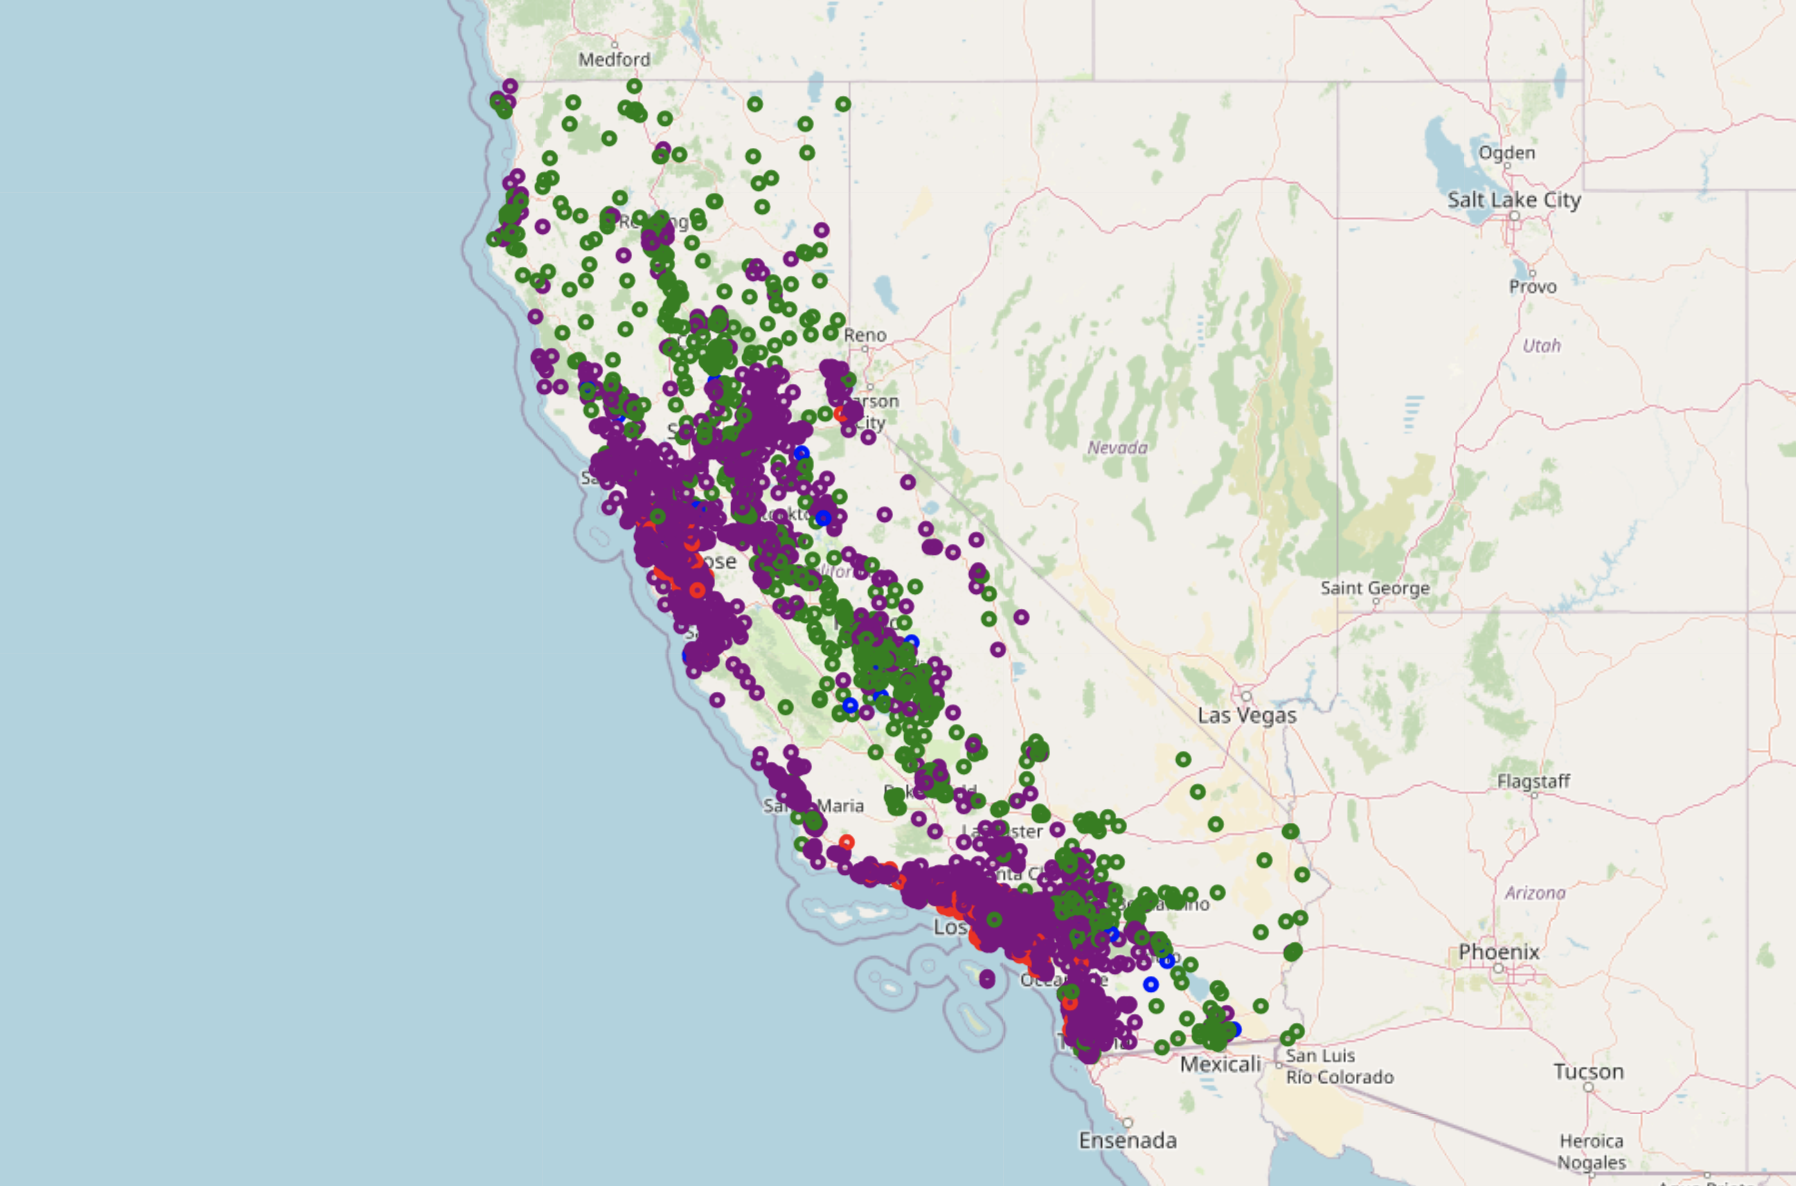
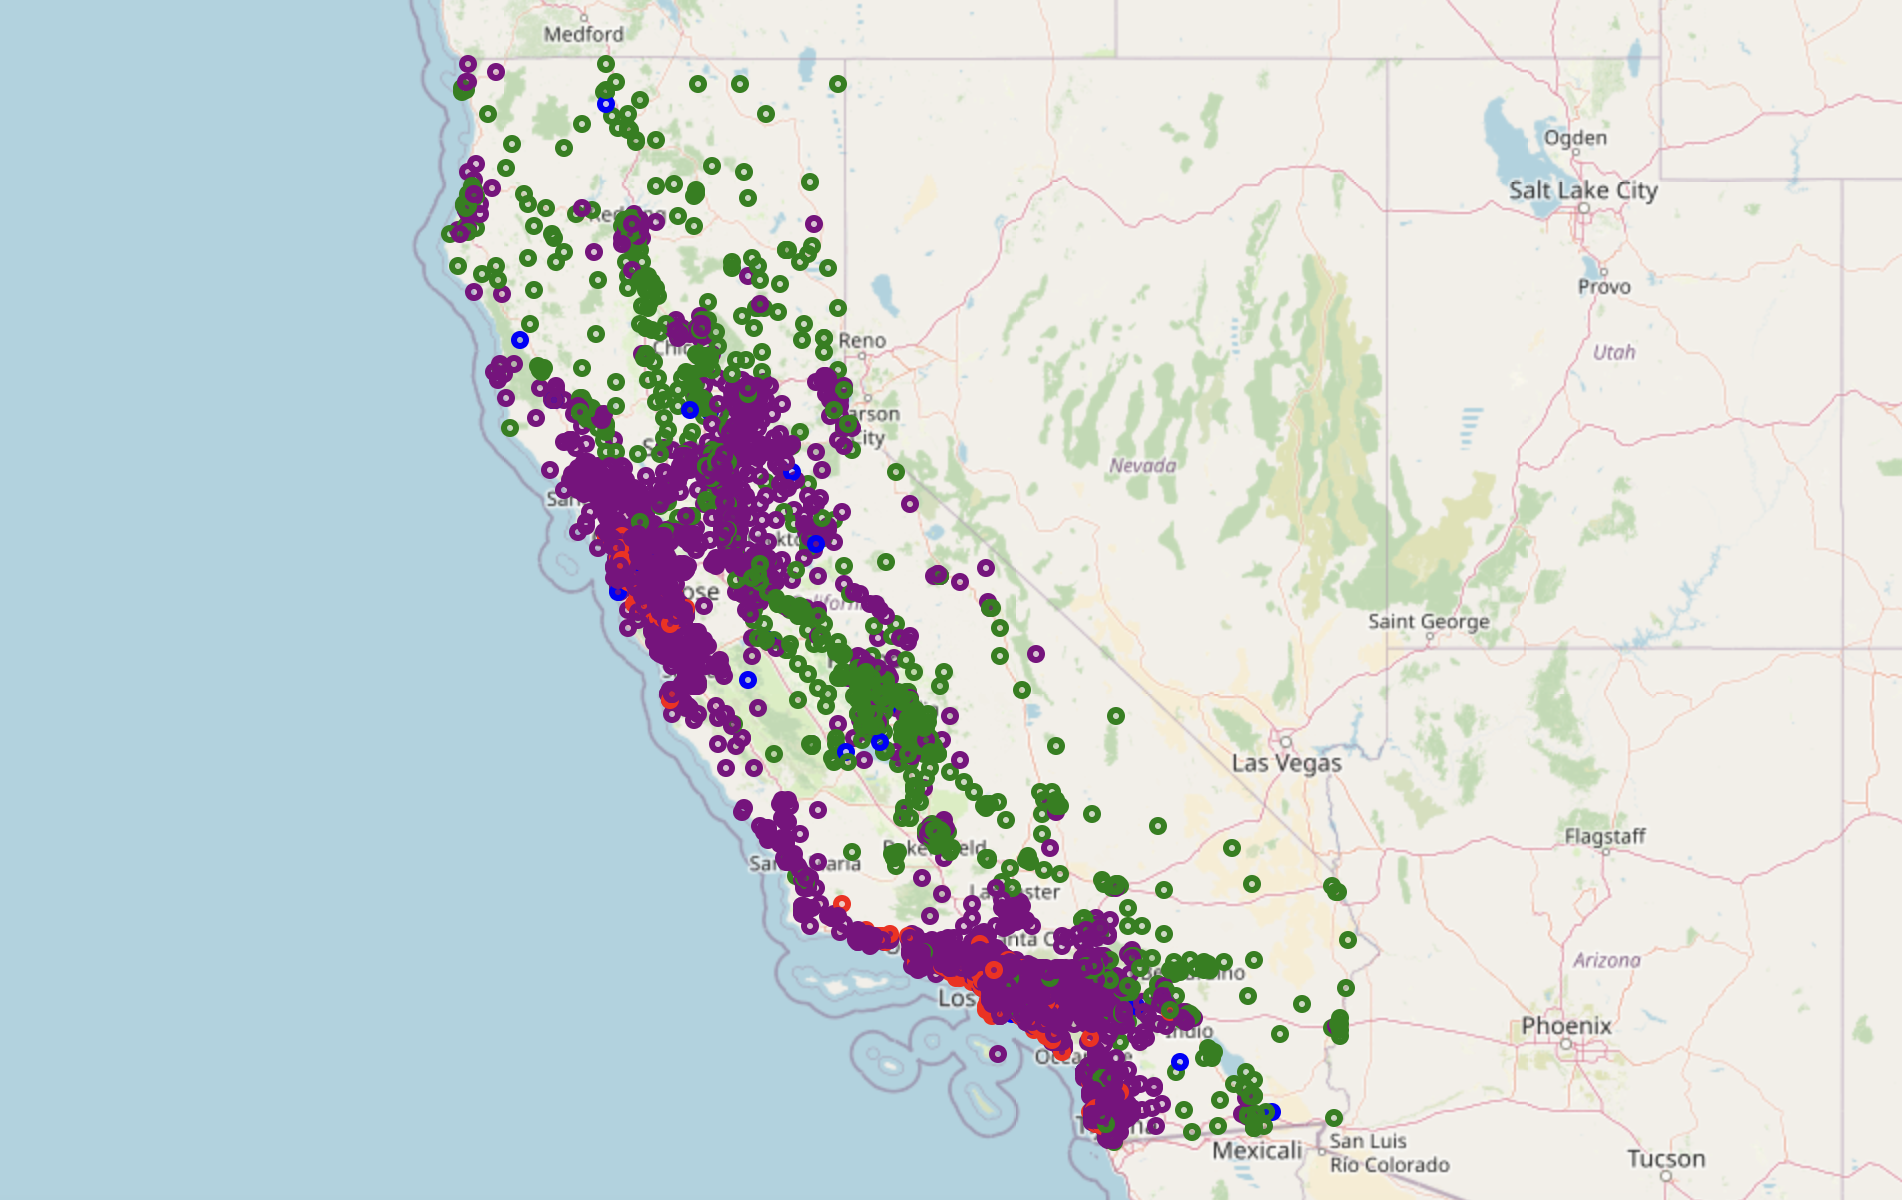
updated visualizations tab

diff --git a/frontend/src/components/visualizations.js b/frontend/src/components/visualizations.js
@@ -4,15 +4,52 @@ function Visualizations(props) {
   return (
     <div id="visualizations">
       <h1>Analytics/Visualizations for California Housing Prices</h1>
-      <h3>Graph #1: Housing Sizes and House age</h3>
-      <img src={require("../assets/img/graph1.png")} alt="Graph showing relationship between Housing Prices and House Age" />
-      <p>
-        There is a clear relationship present from the graph: as time progresses, more rooms arise on the block. 
-        Both total rooms and total bedrooms show this relationship (visible by the upward motion 
-        of the lines). This correlation makes sense when you look at the population of California from 1970-current 
-        (see graph below from this <a href=''>source</a>). It makes sense that as the population increases, more housing needs to be provided to accommodate 
-        the influx of people. As more housing is generated, more rooms are constructed.
-      </p>
+      <div className="graphSection">
+        <h2>Graph #1: Housing Sizes and House age</h2>
+        <img src={require("../assets/img/graph1.png")} alt="Graph showing relationship between Housing Prices and House Age" />
+        <p className="graphDescrip">
+          There is a clear relationship present from the graph: as time progresses, more rooms arise on the block. 
+          Both total rooms and total bedrooms show this relationship (visible by the upward motion 
+          of the lines). This correlation makes sense when you look at the population of California from 1970-current 
+          (see graph below from this <a href='https://www.macrotrends.net/states/california/population' rel="noreferrer" target="_blank">source</a>). It makes sense that as the population increases, more housing needs to be provided to accommodate 
+          the influx of people. As more housing is generated, more rooms are constructed.
+        </p>
+        <img src={require("../assets/img/graph4.png")} alt="Graph of California's Population Growth" />
+      </div>
+      <hr/>
+      <div className="graphSection">
+        <h2>Graph #2: Correlation between Ocean Proximity and House Value</h2>
+        <div id="graph2">
+          <img src={require("../assets/img/graph2.png")} alt="Graph showing relationship between Ocean Proximity and House Value" />
+          <p className="graphDescrip">
+            We were relatively surprised by the results of the graph. Our initial thought would be that the near 
+            ocean section would be th most expensive, however the island section was. This makes sense, however, when 
+            you factor in islands such as Catalina Island which is notorious for its expensive real estate. The inland section 
+            was the least expensive, which followed our predictions.
+          </p>
+        </div>
+      </div>
+      <div className="graphSection">
+        <h2>Graph #3: Map Visualizations</h2>
+        <div className="graph3" >
+          <img id="imgLeft" src={require("../assets/img/graph3.png")} alt="Map Visualization" />
+          <p className="graphDescrip">
+            Our map displays the median_house_value (median of the household prices of all the houses in the block). 
+            The colors indicate which price sector the block falls into. Houses under $100,000 are colored green, houses between 
+            $100,000 to $500,000 are colored purple, houses between $500,000 and $1,000,000 are red, and houses over $1,000,000 
+            are colored blue.
+          </p>
+        </div>
+        <div className="graph3">
+          <p className="graphDescrip">
+            The map provided an interesting complement to our graphical results from Graph #2. Many of the more inland housing blocks are colored purple 
+            (less than 100,000 in median value), which supported our graphical results. Homes in Newport Beach and Beverly Hills predominantly fall within the 
+            higher-priced brackets, reflecting the premium real estate trends associated with these locations.
+          </p>
+          <img src={require("../assets/img/graph5.png")} alt="Graph of California's Population Growth" />  
+        </div>
+      </div>
+      <a href='https://colab.research.google.com/drive/12JzOhJDIA2z4OqKoCXC_UrYxwxjRjwsj?usp=sharing' rel="noreferrer" target="_blank">Link to Code for Visualizations</a>
     </div>
   );
 }

diff --git a/backend/src/db.js b/backend/src/db.js
@@ -3,6 +3,8 @@ import mysql from 'mysql2';
 import { Client } from 'ssh2';
 import {join, dirname} from 'path';
 import { fileURLToPath } from 'url';
+
+// Source: https://medium.com/@devontem/nodejs-express-using-ssh-to-access-mysql-remotely-60372832dd08
 // Create a new SSH client instance
 const ssh = new Client();
 
@@ -35,7 +37,7 @@ const db = new Promise((resolve, reject) => {
           stream,
         });
         // Connect to the MySQL database
-        await connection.connect((err2) => {
+        connection.connect((err2) => {
           if (err2) {
             console.log('mysql connection error', err2)
             // Reject the promise if there's a MySQL connection error

diff --git a/frontend/src/index.css b/frontend/src/index.css
@@ -53,13 +53,50 @@ nav li:hover {
 #home {
   padding: 15%;
   display: flex;
-  color: #595d6d;;
+  color: #595d6d;
   align-items: center;
 }
 
 #home a {
   color: #7A89C2;
 }
+
+#visualizations {
+  padding: 2% 4% 2% 4%;
+  display: flex;
+  flex-direction: column;
+  color:#595d6d;
+}
+
+#visualizations a {
+  color: #7A89C2;
+}
+
+#graph2 {
+  display: flex;
+  align-items: center;
+}
+
+#graph2 img {
+  margin-right: 3%;
+}
+
+.graph3 {
+  display: flex;
+  align-items: center;
+}
+.graph3 #imgLeft {
+  margin-right: 3%;
+}
+.graphSection img{
+  width: 50%;
+}
+
+hr {
+  color:#595d6d;
+}
+
+
 
 
 #explore {
